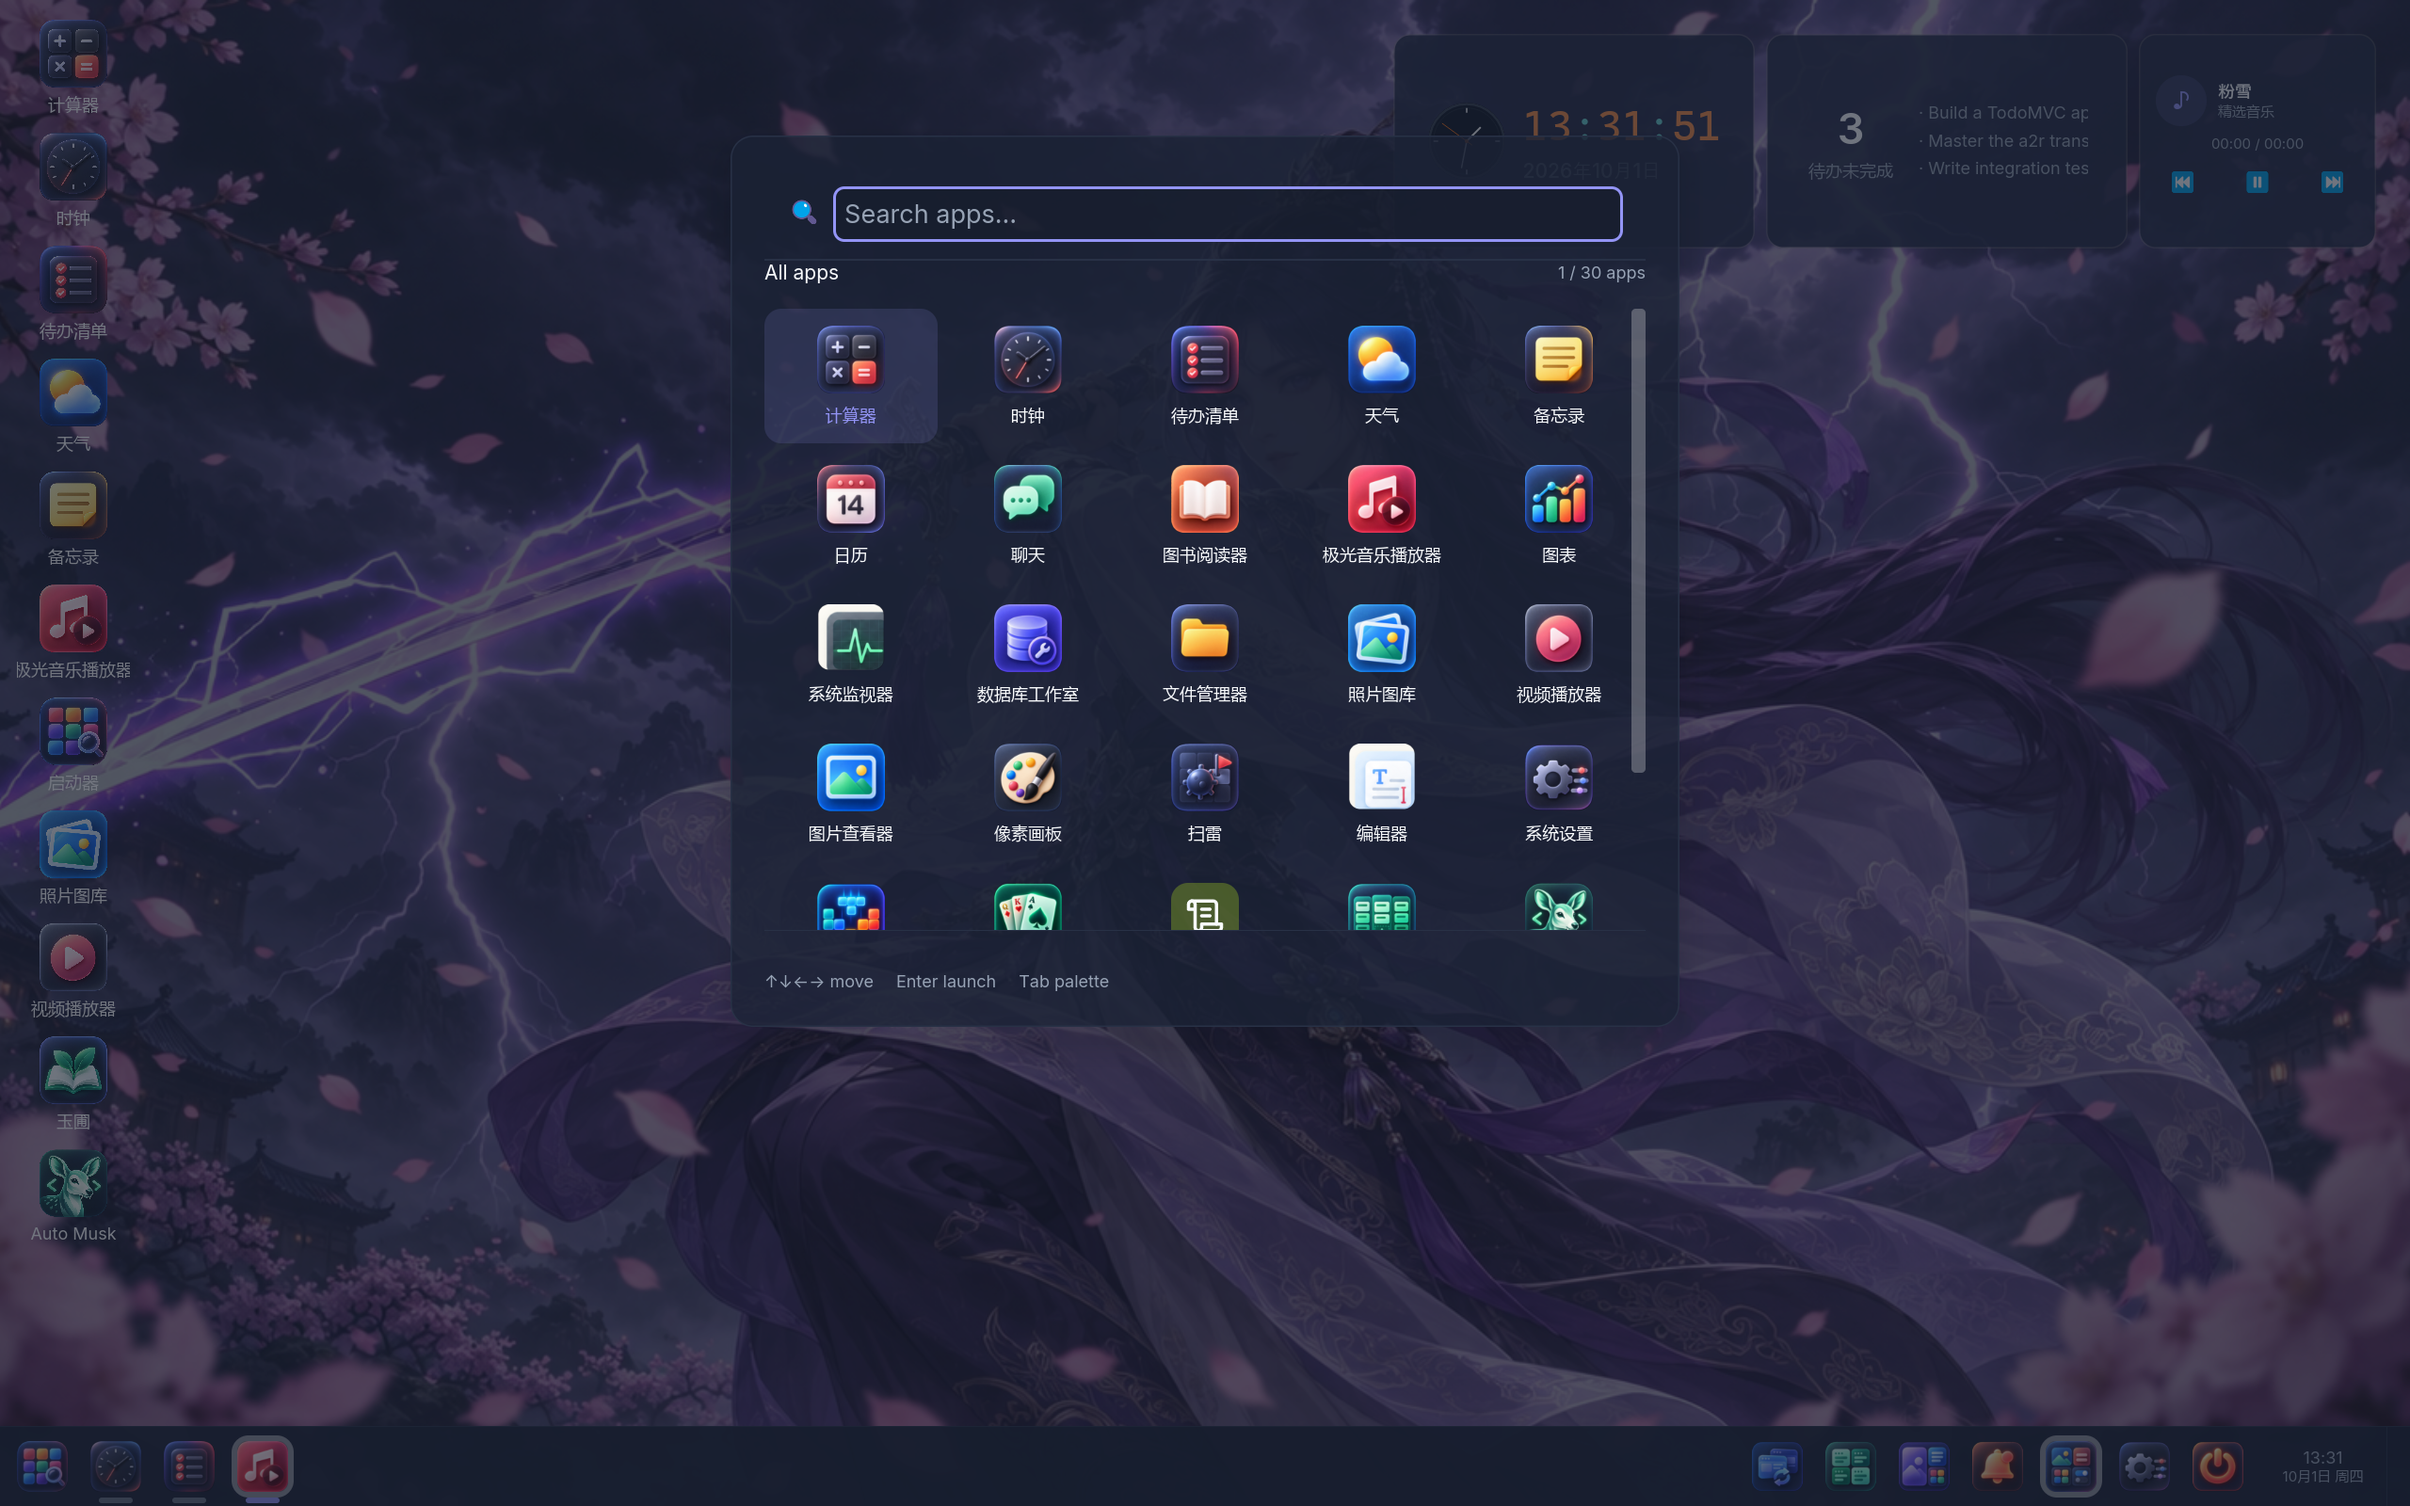
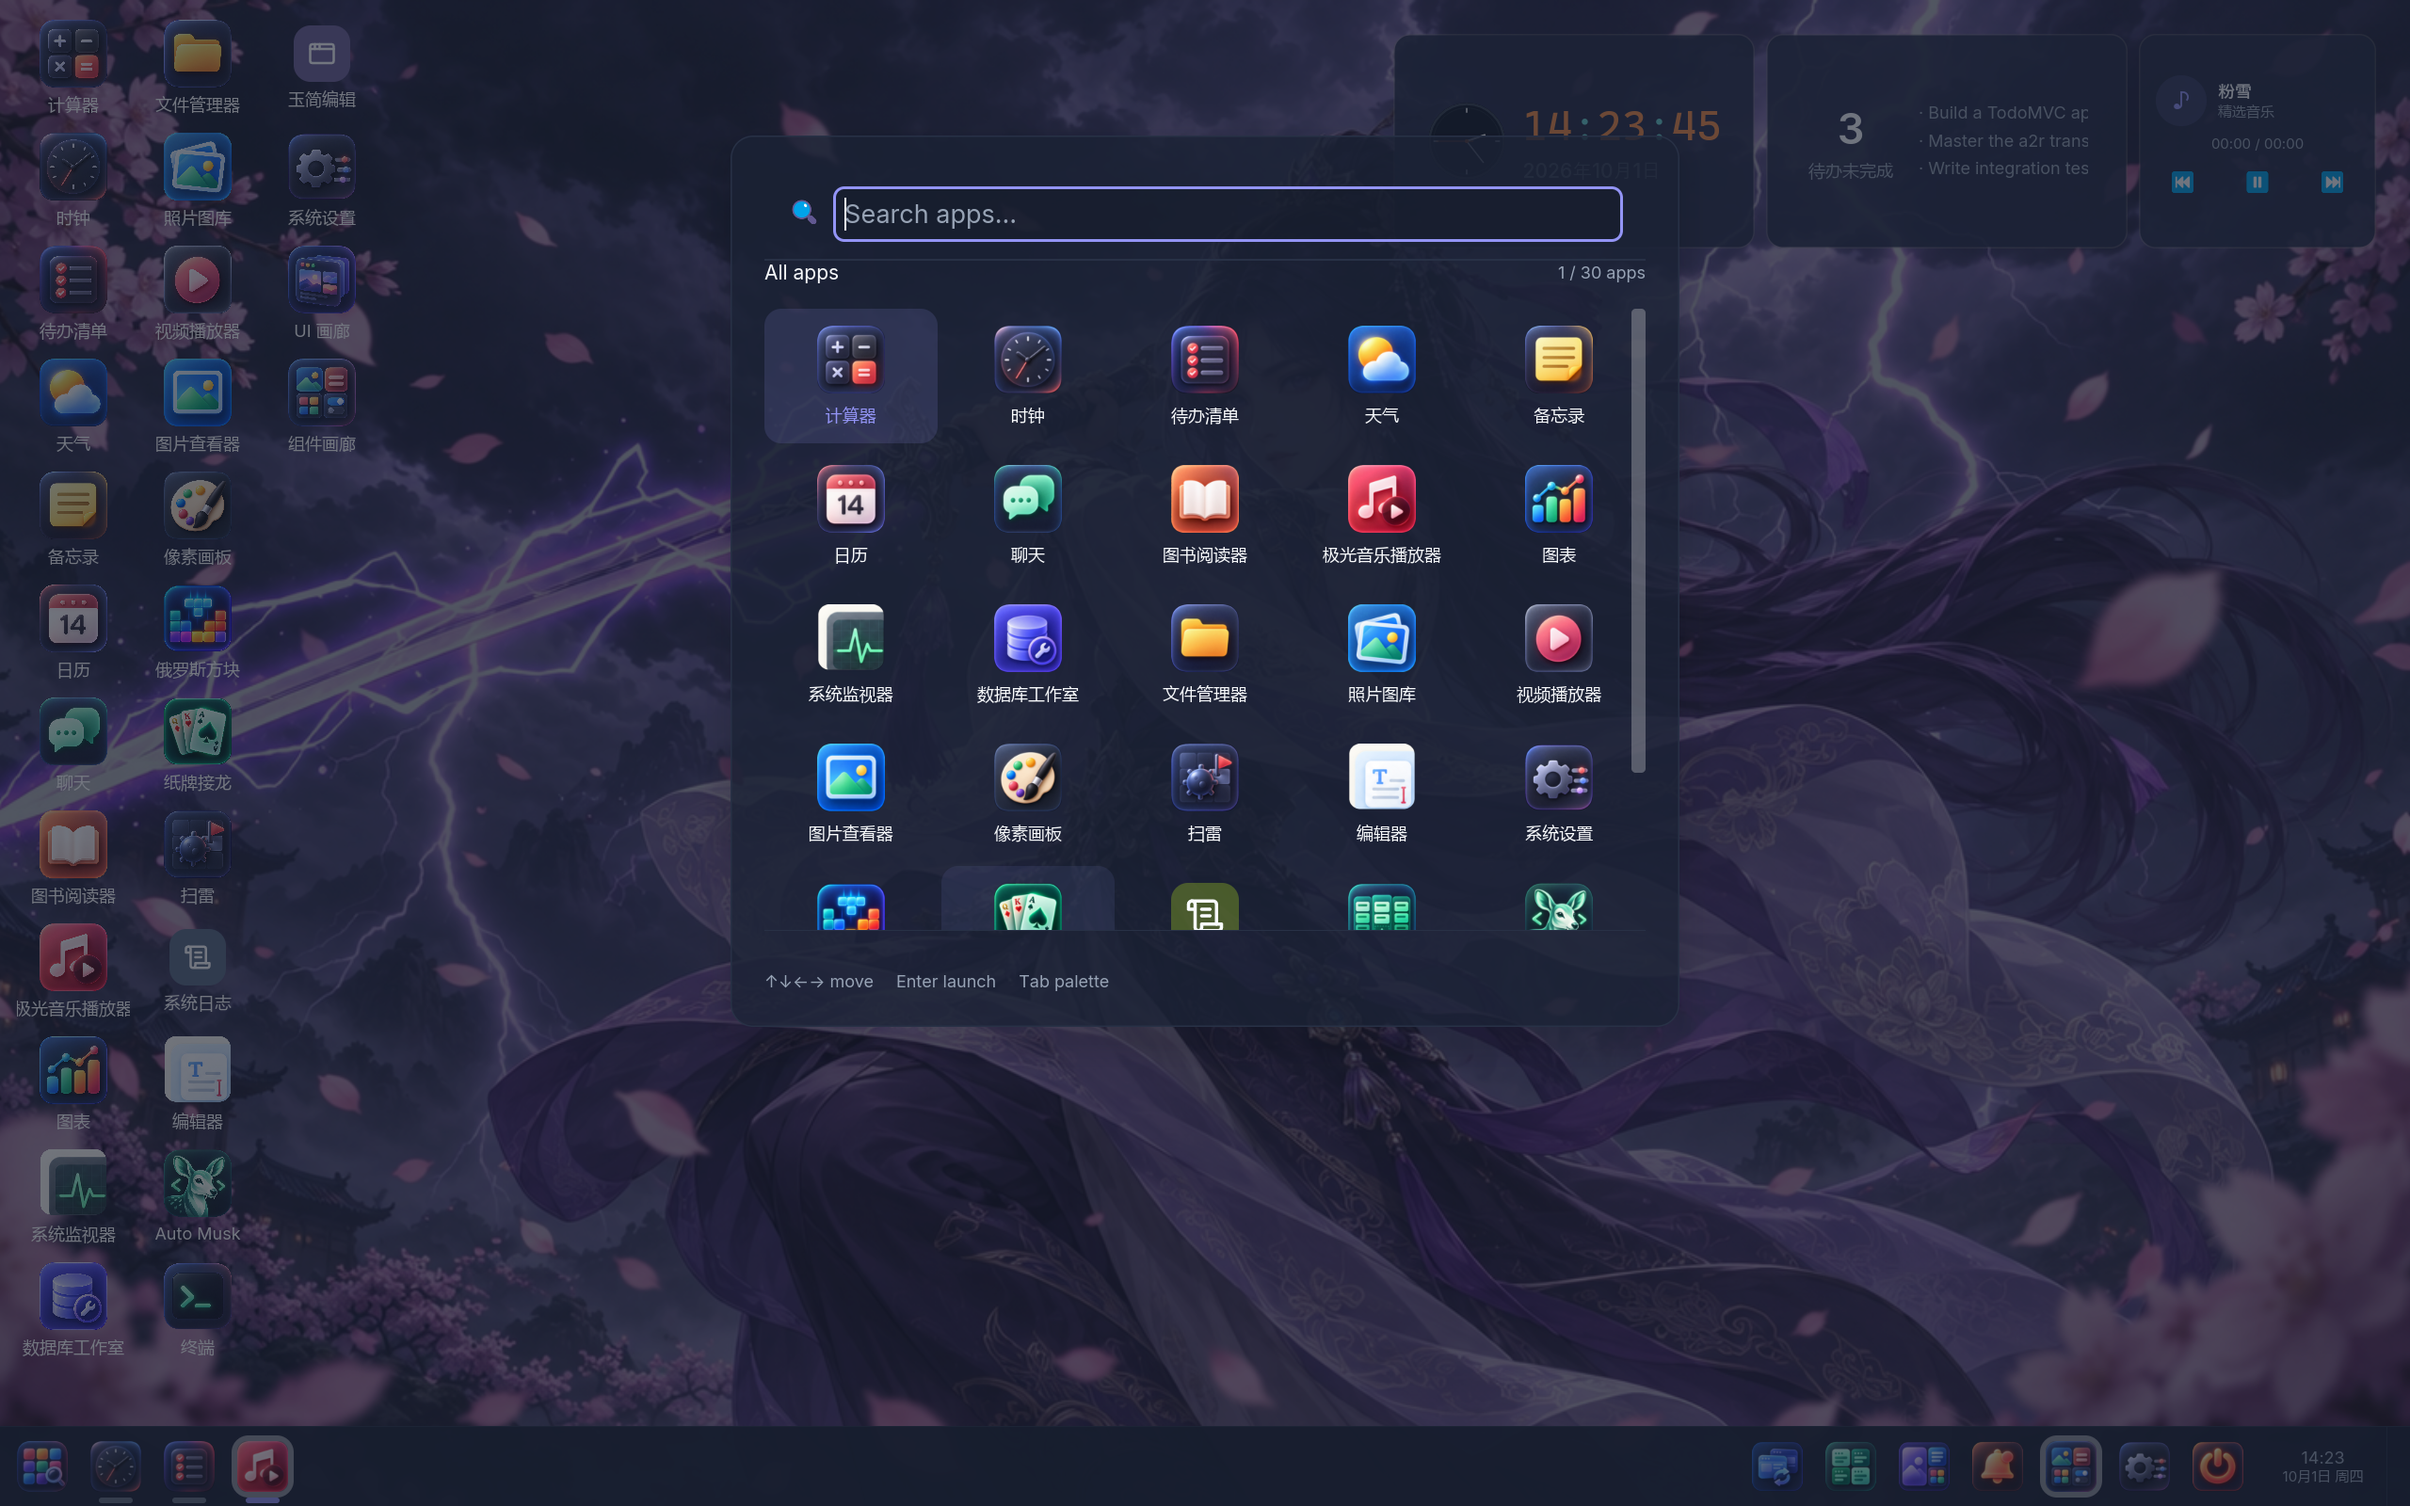
fix(website): replace desktop captures with restored shortcuts (Plan 720)

Changed region(s): [[0.0, 0.0, 0.1562, 0.9062], [0.6875, 0.0625, 0.7188, 0.0938]]

diff --git a/docs/reports/p720-desktop-showcase.md b/docs/reports/p720-desktop-showcase.md
@@ -6,10 +6,10 @@
 
 | 原文件与入库文件名 | 尺寸 | SHA256 |
 |---|---|---|
-| 01-desktop-light.png | 2560×1600 | 3126c9fd652d05442dce2f61c71bbb1d152b0d5eeea861324e34b42521eed04b |
-| 02-desktop-dark.png | 2560×1600 | 552120488abc87b3ea471114505e07054d7b128053415ae137b9f2f443ce5d40 |
-| 03-launcher-light.png | 2560×1600 | a143c62d07c47270a9e0f33cb3390befd71a81f2911e17b5760a4389b2e0f166 |
-| 04-launcher-dark.png | 2560×1600 | 6e5974124f3b337a58d46e6d6d749e229593c3fce57fe4699c4504101e660622 |
+| 01-desktop-light.png | 2560×1600 | 644b503f395bfc2d49e3b187815d3162660f76bfa709cb9bfe3d16862526d7e6 |
+| 02-desktop-dark.png | 2560×1600 | 77ef82ea50beaa99a29dc1ca9492ea11cdd47535b0866c10b537f4bdca3dc042 |
+| 03-launcher-light.png | 2560×1600 | 20696b4380e10bb933b169ff4b941f225d52980db083141527a7cf63259b9ce3 |
+| 04-launcher-dark.png | 2560×1600 | d2409be62d526261a3dffeca3c0af7b0b5ab72c8b7efff9e350357ad2af9cce3 |
 | 05-games-dark.png | 2560×1600 | 40cd4c89d87b7e23398771d9eda1d5781c6b9a3779551cbd7fab3f90fc6cd480 |
 | 06-productivity-dark.png | 2560×1600 | d488fb14350f9db3d9cd83cc95eee38ebc1e3bd6c1059eaaf3bdd8b7b3dbe63b |
 
@@ -26,7 +26,7 @@
 
 base commit：ccf1b9b78e43b49ec6913234df7d0d88dbfa45e7；book 只读依赖 d7a71a7fb1fa42ddd26d6cec859715ed98161f7a。Spec 输入 SHA256：project=ae221cbbadcaac30daef10976c002fcd08b169fbe9717a5bb33cfe6a4064b8cf，ui-presentation=b5bbbeee215fb26b856f33ed12fdf2479cd7bd215f3aa3d740fe2bd79580ae8d。
 
-## 验证证据（2026-10-01）
+## 首批验证证据（2026-10-01，历史资产）
 
 网站实现基线：`d2eb9f8935ab0109cadba8779a2baade933c0c92`（在 `333a2042ccc5dfbd128caf4b9423ddea3e249a1e` 展示实现上补专题锚点偏移）。仅网站/文档改动，Category A，未运行 Cargo 或 docs_gen。
 
@@ -68,3 +68,16 @@ base commit：ccf1b9b78e43b49ec6913234df7d0d88dbfa45e7；book 只读依赖 d7a71
 ## 发布与收尾边界
 
 本次只合入网站源代码并提供本地生产构建预览，不部署公开站点。当前会话未注册 store-mediated Spec writer，`127.0.0.1:8080/api/specs` 连接拒绝；ledger 更新/归档/原 worktree 清理保留为后续检查点，不直接改 `.autoos/specs.json`。规范正文及测试证据随代码保留。
+
+## 用户重拍修正（repair-1）
+
+用户报告首批截图缺少桌面快捷方式，并明确要求重拍六图替换、合入 master。2026-10-01 14:18..14:23 更新了 01..04；人工查看四张新原图，桌面恢复多列快捷方式，Launcher 后方桌面同步更新。05 游戏、06 工作图与原批 hash 相同，整组六文件均同步并重新核对；上方来源表现在记录最新批次。旧截图与首批页面视觉包可由 `19bbbdeeab77e6c57aa4d7031c5fc3be14eb23f5` 恢复，不将旧 77 项测试伪称为新图片测试。
+
+| 文件 | 首批 SHA256（仅历史溯源） |
+|---|---|
+| 01-desktop-light.png | 3126c9fd652d05442dce2f61c71bbb1d152b0d5eeea861324e34b42521eed04b |
+| 02-desktop-dark.png | 552120488abc87b3ea471114505e07054d7b128053415ae137b9f2f443ce5d40 |
+| 03-launcher-light.png | a143c62d07c47270a9e0f33cb3390befd71a81f2911e17b5760a4389b2e0f166 |
+| 04-launcher-dark.png | 6e5974124f3b337a58d46e6d6d749e229593c3fce57fe4699c4504101e660622 |
+
+修正仅资产与证据，Vue/数据/路由/正文/测试断言和 canonical Spec 均不变；无需新语义修订。受影响验收重新验证：六图 source hash/尺寸、新构建、既有展示与发布页图片/console 用例、60 组合/24 图更新及人工看图。未触及网站行为的旧完整回归保留为已识别基线，Category A 不运行 Cargo/docs_gen。
